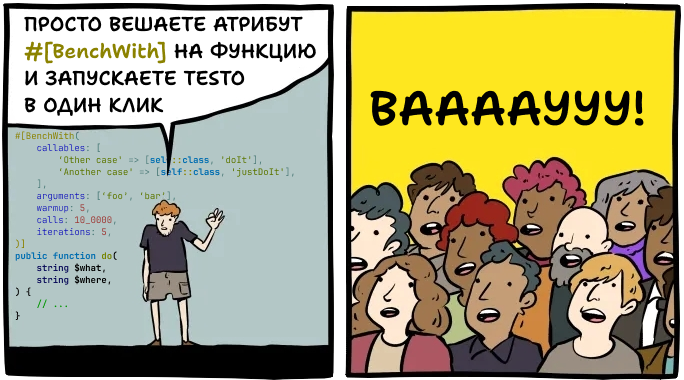
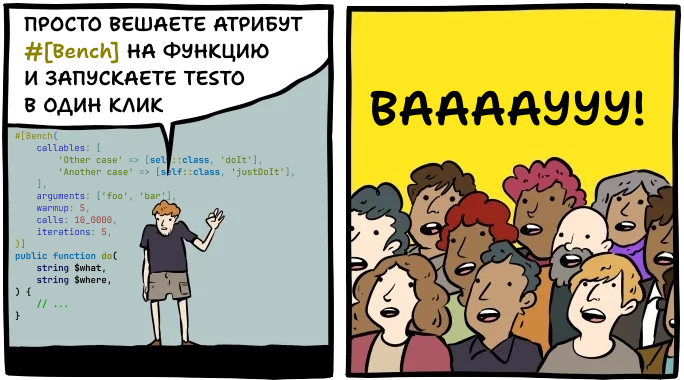
Replace `BenchWith` with `Bench` in `collider` article

Changed region(s): [[0.1535, 0.0868, 0.4605, 0.1737], [0.0614, 0.3474, 0.1228, 0.3763]]

diff --git a/ru/blog/collider.md b/ru/blog/collider.md
@@ -30,10 +30,10 @@ PHP очень хорош в синтетических тестах, обгон
 > Решение на массивах будет медленнее цикла `for`, ведь дополнительные ресурсы уходят на вычисление хешей в хеш-таблице при создании массива,
 а ещё нужно больше памяти для промежуточных значений.
 
-Давайте в этом убедимся: напишем функции и добавим атрибут `#[BenchWith]` на одну из функций.
+Давайте в этом убедимся: напишем функции и добавим атрибут `#[Bench]` на одну из функций.
 
 ```php
-#[BenchWith(
+#[Bench(
     callables: [
         'in_array' => [self::class, 'sumInArray'],
     ],
@@ -57,7 +57,7 @@ public static function sumInArray(int $a, int $b): int
 }
 ```
 
-С помощью атрибута `#[BenchWith]` мы говорим Testo, что:
+С помощью атрибута `#[Bench]` мы говорим Testo, что:
 - хотим сравнить производительность текущей функции (`sumInCycle`) с другой функцией (`sumInArray`);
 - в обе функции будут передаваться одинаковые аргументы: `1` и `5_000`;
 - для замера времени каждая функция будет запущена 100 раз подряд (`calls: 100`).
@@ -95,7 +95,7 @@ Summary:
 Чем меньше этот коэффициент, тем стабильнее результаты.
 
 Всё, что нам нужно сделать, — это получить больше данных, размазанных во времени, то есть перезапустить бенчмарки несколько раз.
-В атрибуте `#[BenchWith]` есть параметр `iterations`, который и отвечает за количество перезапусков бенчмарков.
+В атрибуте `#[Bench]` есть параметр `iterations`, который и отвечает за количество перезапусков бенчмарков.
 
 Выставим `iterations: 10` и перезапустим:
 
@@ -136,7 +136,7 @@ Summary:
 но я хочу обратить ваше внимание на то, как быстро теперь можно что-то забенчить!
 
 
-## BenchWith
+## Bench
 
 ![Шок](/blog/collider/img-04-ru.png)
 

diff --git a/blog/collider.md b/blog/collider.md
@@ -29,10 +29,10 @@ Here's my reasoning:
 
 > The array solution should be slower than the `for` loop, since extra resources go into computing hashes for the hash table when creating the array, and more memory is needed for intermediate values.
 
-Let's verify this: we'll write the functions and add the `#[BenchWith]` attribute to one of them.
+Let's verify this: we'll write the functions and add the `#[Bench]` attribute to one of them.
 
 ```php
-#[BenchWith(
+#[Bench(
     callables: [
         'in_array' => [self::class, 'sumInArray'],
     ],
@@ -56,7 +56,7 @@ public static function sumInArray(int $a, int $b): int
 }
 ```
 
-With the `#[BenchWith]` attribute, we're telling Testo that:
+With the `#[Bench]` attribute, we're telling Testo that:
 - we want to compare the performance of the current function (`sumInCycle`) with another function (`sumInArray`);
 - both functions will receive the same arguments: `1` and `5_000`;
 - to measure execution time, each function will be called 100 times in a row (`calls: 100`).
@@ -94,7 +94,7 @@ Statistics comes to the rescue with the [coefficient of variation](https://en.wi
 The smaller this coefficient, the more stable the results.
 
 All we need to do is collect more data spread over time — that is, rerun the benchmarks multiple times.
-The `#[BenchWith]` attribute has an `iterations` parameter responsible for the number of benchmark reruns.
+The `#[Bench]` attribute has an `iterations` parameter responsible for the number of benchmark reruns.
 
 Let's set `iterations: 10` and rerun:
 
@@ -135,7 +135,7 @@ Of course, you could experiment with a larger range, enable JIT, and prove that 
 but I want to draw your attention to how quick it is to benchmark something now!
 
 
-## BenchWith
+## Bench
 
 ![Shock](/blog/collider/img-04.png)
 
